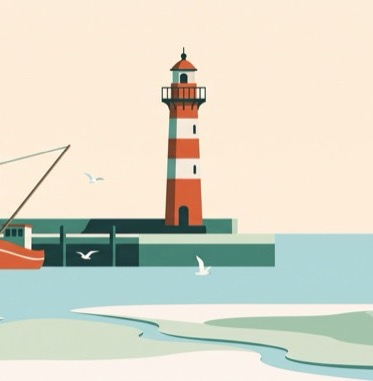
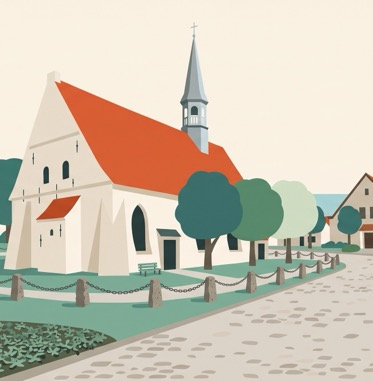
feat(app): Kirchen der Gemeinden als Platzhalter-Motive
Bisher bekamen Termine ohne eigenes Foto nur bei vier Gemeinden ein passendes
Bild, sonst ein allgemeines Landschaftsmotiv (Deich, Kohlfeld). Neun weitere
Kirchen kommen dazu, Büsum wechselt vom Hafen auf St. Clemens — die Kirche mit
55 der 70 Büsumer Termine.

Gemessen am aktuellen Feed: 514 Termine ohne eigenes Foto, davon hatten 223 ein
Kirchenmotiv (43 %), jetzt 473 (92 %).

Jedes Motiv liegt wie bisher in zwei Zuschnitten vor. Der quadratische ist je
Bild um den Kirchturm gesetzt, nicht mittig — sonst zeigt die Listenkarte nur
Himmel, wie es bei Hennstedt schon einmal der Fall war.

Zwei Schlüssel weichen von der Ortsschreibweise ab, weil `parish` zuerst greift:
"kg heide" trägt das Präfix aus ChurchDesk, "st. michaelisdonn" die Schreibweise
des Kirchspiels (die Stadt schwankt zwischen "Sankt" und "St."). Ein neuer Test
prüft beides — ohne ihn fiele ein falscher Schlüssel still auf das
Landschaftsmotiv zurück.

diff --git a/apps/app/test/placeholders.test.ts b/apps/app/test/placeholders.test.ts
@@ -12,7 +12,23 @@ import { join } from "node:path";
  * das Kirchenschiff lag außerhalb.
  */
 const ASSETS = join(__dirname, "..", "assets");
-const MOTIVE = ["deich", "kohl", "buesum", "meldorf", "wesselburen", "hennstedt"];
+const MOTIVE = [
+  "deich",
+  "kohl",
+  "buesum",
+  "meldorf",
+  "wesselburen",
+  "hennstedt",
+  "brunsbuettel",
+  "michaelisdonn",
+  "marne",
+  "albersdorf",
+  "burg",
+  "heide",
+  "eddelak",
+  "pahlen",
+  "weddingstedt",
+];
 
 /** Breite/Höhe eines Bildes über `sips` (macOS) — auf anderen Systemen übersprungen. */
 function seitenverhaeltnis(datei: string): number {
@@ -56,6 +72,62 @@ describe("Platzhalter-Motive", () => {
     for (const m of MOTIVE) {
       const v = seitenverhaeltnis(join(ASSETS, `ph-${m}-wide.jpg`));
       expect(v, `ph-${m}-wide.jpg ist ${v.toFixed(2)}:1 statt ~2,36:1`).toBeGreaterThan(1.8);
+    }
+  });
+});
+
+describe("Zuordnung Gemeinde → Motiv", () => {
+  // Die Schlüssel müssen exakt den Werten entsprechen, die aus ChurchDesk
+  // kommen (kleingeschrieben). Zwei Fälle greifen sonst still daneben und
+  // niemand merkt es, weil dann einfach ein Landschaftsmotiv erscheint:
+  //   - „KG Heide" trägt das Präfix; ein Schlüssel „heide" träfe nie zu.
+  //   - Bei St. Michaelisdonn schwankt die STADT zwischen „Sankt" und „St.",
+  //     der Kirchspiel-Name nicht. Weil `parish` zuerst geprüft wird, genügt
+  //     der eine Eintrag — solange er exakt so geschrieben ist.
+  const schluessel = [
+    "büsum",
+    "meldorf",
+    "wesselburen",
+    "hennstedt",
+    "brunsbüttel",
+    "st. michaelisdonn",
+    "marne",
+    "albersdorf",
+    "burg",
+    "kg heide",
+    "eddelak",
+    "pahlen und delve",
+    "weddingstedt",
+  ];
+
+  // `placeholders.ts` lässt sich hier nicht importieren: `require()` auf ein
+  // JPG kann nur der Metro-Bundler, nicht Vitest. Deshalb wie beim Bildrahmen
+  // unten gegen den Quelltext prüfen.
+  const quelle = readFileSync(join(__dirname, "..", "lib", "placeholders.ts"), "utf8");
+
+  it("kennt jede Gemeinde in beiden Zuschnitten", () => {
+    for (const k of schluessel) {
+      // In der Objektliteral-Schreibweise steht der Schlüssel mit Punkt oder
+      // Leerzeichen in Anführungszeichen, ein einfacher ohne.
+      const muster = new RegExp(`(^|[{,\\s])"?${k.replace(".", "\\.")}"?:`, "gu");
+      const treffer = quelle.match(muster)?.length ?? 0;
+      expect(treffer, `„${k}" steht ${treffer}× statt 2× (Liste + Detail)`).toBe(2);
+    }
+  });
+
+  it("verweist für jede Gemeinde auf beide Bilddateien", () => {
+    // Datei fehlt → der Bundler bricht erst auf dem Gerät ab.
+    for (const m of MOTIVE) {
+      expect(quelle, `ph-${m}.jpg wird nirgends eingebunden`).toContain(`ph-${m}.jpg`);
+      expect(quelle, `ph-${m}-wide.jpg wird nirgends eingebunden`).toContain(`ph-${m}-wide.jpg`);
+    }
+  });
+
+  it("schreibt Schlüssel klein — sonst greift der Abgleich nie", () => {
+    // placeholderFor() vergleicht gegen name.trim().toLowerCase(); ein Schlüssel
+    // mit Großbuchstaben träfe niemals zu und fiele still auf Deich/Kohl zurück.
+    for (const k of schluessel) {
+      expect(k, `„${k}" ist nicht kleingeschrieben`).toBe(k.toLowerCase());
     }
   });
 });

diff --git a/apps/app/lib/placeholders.ts b/apps/app/lib/placeholders.ts
@@ -4,6 +4,11 @@
 // einem Büsumer Termin wäre irreführend. Für alle anderen Gemeinden bleiben die
 // neutralen Landschaftsmotive (Deich, Kohlfeld) — die passen überall in Dithmarschen.
 //
+// Die Kirchen sind gezeichnet, nicht fotografiert, und zeigen das jeweils
+// namengebende Haus: Jakobuskirche Brunsbüttel, St.-Michaelis St. Michaelisdonn,
+// Maria-Magdalenen Marne, St. Remigius Albersdorf, Petri-Kirche Burg,
+// St.-Jürgen Heide, St. Clemens Büsum.
+//
 // Jedes Motiv liegt in ZWEI Zuschnitten vor, weil die beiden Anzeigeorte
 // gegensätzliche Formate haben:
 //
@@ -29,12 +34,29 @@ const PH_KOHL_WIDE = require("../assets/ph-kohl-wide.jpg");
 const NEUTRAL = [PH_DEICH, PH_KOHL] as const;
 const NEUTRAL_WIDE = [PH_DEICH_WIDE, PH_KOHL_WIDE] as const;
 
-/** Gemeinde/Ort → eigenes Motiv, quadratischer Zuschnitt (Liste). */
+/**
+ * Gemeinde/Ort → eigenes Motiv, quadratischer Zuschnitt (Liste).
+ *
+ * Schlüssel ist `parish` bzw. `city` in Kleinschreibung, so wie sie aus
+ * ChurchDesk kommen — deshalb steht hier „kg heide" mit Präfix und
+ * „st. michaelisdonn" in der Schreibweise des Kirchspiels. Der Ort schwankt
+ * dort zwischen „Sankt" und „St."; weil `parish` zuerst greift, genügt ein
+ * Eintrag.
+ */
 const ORT_PLACEHOLDERS: Record<string, number> = {
   büsum: require("../assets/ph-buesum.jpg"),
   meldorf: require("../assets/ph-meldorf.jpg"),
   wesselburen: require("../assets/ph-wesselburen.jpg"),
   hennstedt: require("../assets/ph-hennstedt.jpg"),
+  brunsbüttel: require("../assets/ph-brunsbuettel.jpg"),
+  "st. michaelisdonn": require("../assets/ph-michaelisdonn.jpg"),
+  marne: require("../assets/ph-marne.jpg"),
+  albersdorf: require("../assets/ph-albersdorf.jpg"),
+  burg: require("../assets/ph-burg.jpg"),
+  "kg heide": require("../assets/ph-heide.jpg"),
+  eddelak: require("../assets/ph-eddelak.jpg"),
+  "pahlen und delve": require("../assets/ph-pahlen.jpg"),
+  weddingstedt: require("../assets/ph-weddingstedt.jpg"),
 };
 
 /** Dieselben Motive im Panorama-Zuschnitt (Detailansicht). */
@@ -43,6 +65,15 @@ const ORT_PLACEHOLDERS_WIDE: Record<string, number> = {
   meldorf: require("../assets/ph-meldorf-wide.jpg"),
   wesselburen: require("../assets/ph-wesselburen-wide.jpg"),
   hennstedt: require("../assets/ph-hennstedt-wide.jpg"),
+  brunsbüttel: require("../assets/ph-brunsbuettel-wide.jpg"),
+  "st. michaelisdonn": require("../assets/ph-michaelisdonn-wide.jpg"),
+  marne: require("../assets/ph-marne-wide.jpg"),
+  albersdorf: require("../assets/ph-albersdorf-wide.jpg"),
+  burg: require("../assets/ph-burg-wide.jpg"),
+  "kg heide": require("../assets/ph-heide-wide.jpg"),
+  eddelak: require("../assets/ph-eddelak-wide.jpg"),
+  "pahlen und delve": require("../assets/ph-pahlen-wide.jpg"),
+  weddingstedt: require("../assets/ph-weddingstedt-wide.jpg"),
 };
 
 /**

diff --git a/CHANGELOG.md b/CHANGELOG.md
@@ -23,9 +23,15 @@ sammelt sich hier alles, was seit Projektbeginn entstanden ist.
 - **Geteiltes Paket** (`packages/shared`): TypeScript-Typen, Kirchspiel-Mapping,
   Kirchen-Koordinaten als Fallback.
 - **Landingpage** (`apps/web`) auf `moin-kark.de`, Web-App auf
-  `karte.moin-kark.de` — mit sechs eigens erstellten Dithmarschen-Illustrationen
-  (Deich mit Schafen, Büsumer Hafen, Meldorfer Dom, St. Bartholomäus
-  Wesselburen, St. Secundus Hennstedt, Kohlfelder).
+  `karte.moin-kark.de` — mit eigens erstellten Dithmarschen-Illustrationen
+  (Deich mit Schafen, Kohlfelder) und den Kirchen der Gemeinden: Meldorfer Dom,
+  St. Bartholomäus Wesselburen, St. Secundus Hennstedt, St. Clemens Büsum,
+  Jakobuskirche Brunsbüttel, St.-Michaelis St. Michaelisdonn,
+  Maria-Magdalenen Marne, St. Remigius Albersdorf, Petri-Kirche Burg,
+  St.-Jürgen Heide, dazu Eddelak, Pahlen und Weddingstedt.
+- Veranstaltungen ohne eigenes Foto zeigen die Kirche ihrer Gemeinde statt eines
+  allgemeinen Landschaftsbildes — für neun von zehn Terminen passt das Bild jetzt
+  zum Ort.
 - Standort & Umkreis: Live-Standort, der Marker folgt der Bewegung; „Zu meinem
   Standort“ fällt bei fernem Standort auf die Dithmarschen-Übersicht zurück.
 - Ziehbares Listen-Sheet mit drei Snap-Stufen.
